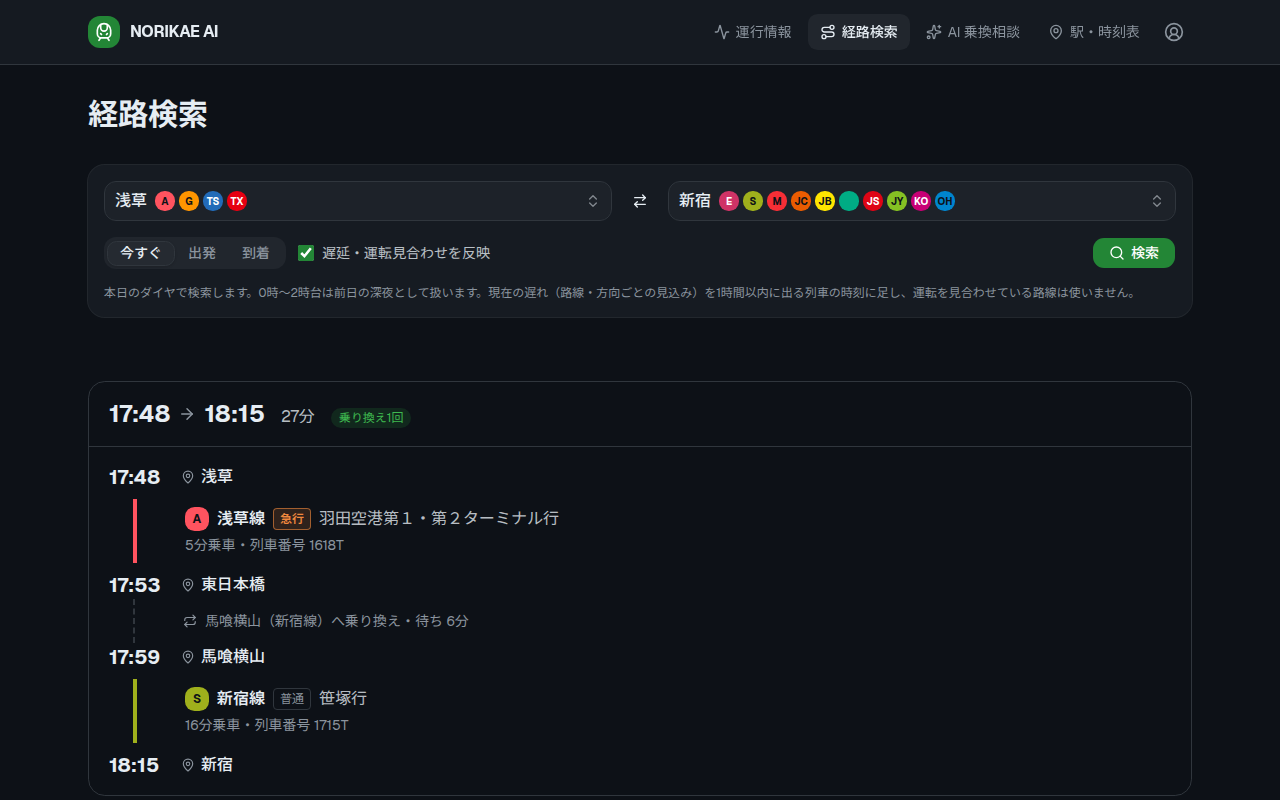
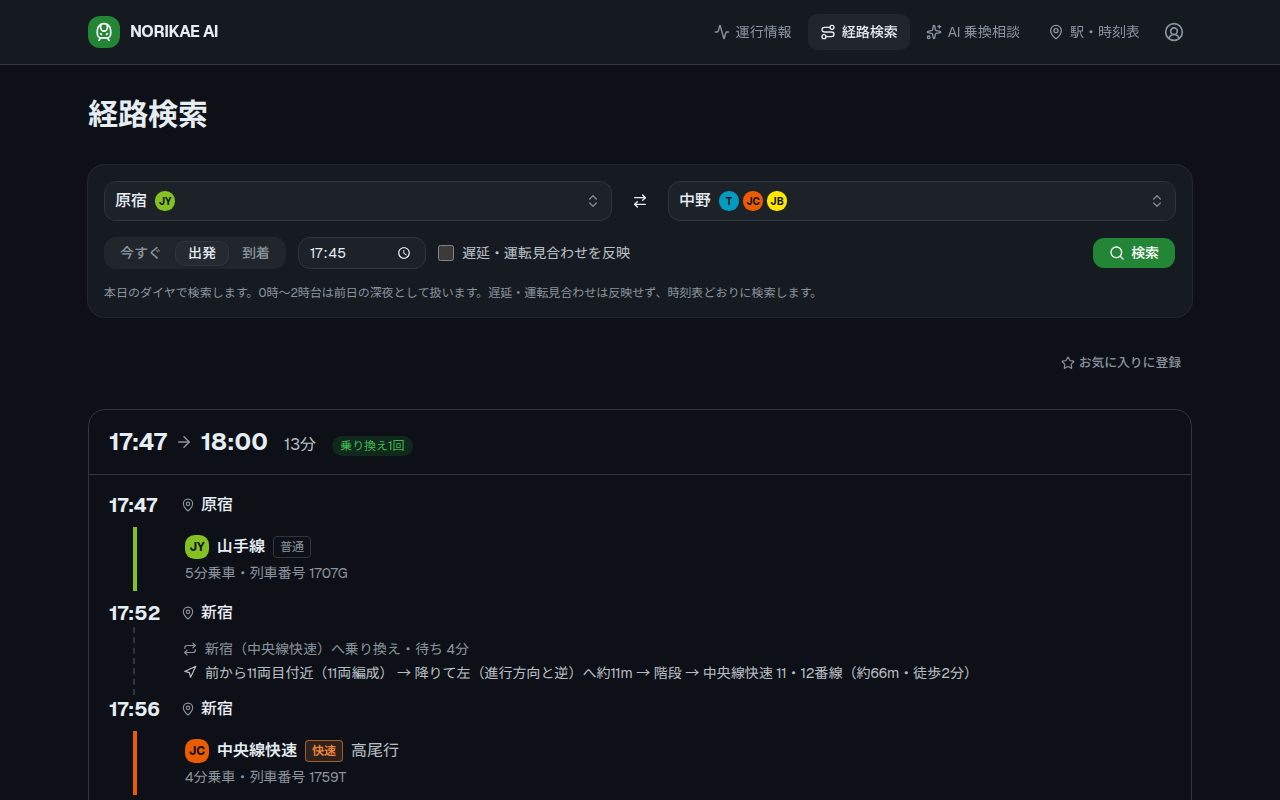
docs: 経路検索のスクリーンショットを、駅の中の案内が出る経路に撮り直す

diff --git a/README.md b/README.md
@@ -19,7 +19,7 @@
 
 運行情報や列車位置などの動的データと、駅時刻表・列車時刻表などの静的データを組み合わせ、各路線・駅の情報の閲覧、遅れを反映した経路検索、AI との会話による照会ができます。
 
-| 運行情報・AI 乗換相談 | 経路検索 | 列車の現在位置 |
+| 運行情報・AI 乗換相談 | 経路検索（乗り換える駅の中の案内） | 列車の現在位置 |
 | --- | --- | --- |
 | ![運行情報](docs/images/home-sp.png) | ![経路検索](docs/images/journey-sp.png) | ![列車の現在位置](docs/images/train-sp.png) |
 
